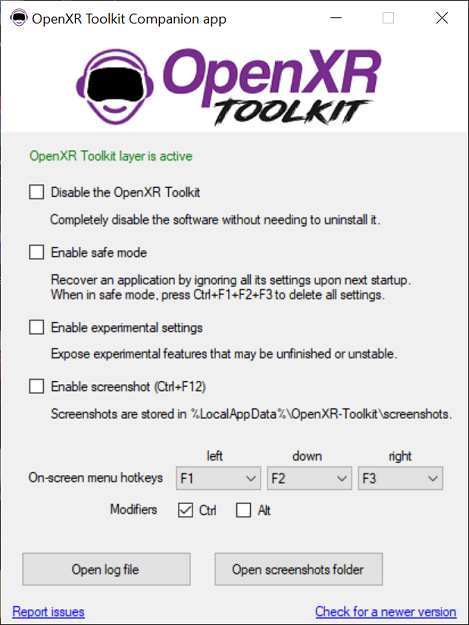
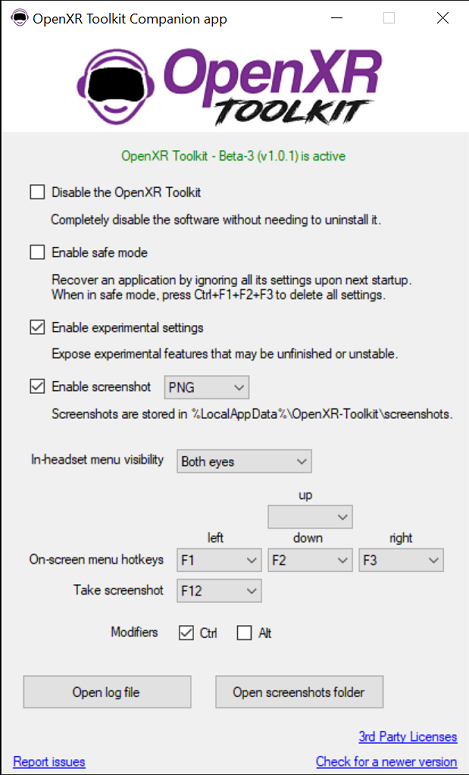
More doc polishing.

diff --git a/index.md b/index.md
@@ -36,9 +36,9 @@ The following OpenXR ToolKit features have additional restrictions:
 
 + This software was only extensively tested with Microsoft Flight Simulator 2020.
 + It is also expected this software should work with most Steam games if they are using OpenXR (instead of Steam's OpenVR).
-+ Fixed Foverated Rendering does not work on Oculus headsets when using the Oculus OpenXR Runtime with DirectX 11 applications.
++ Fixed Foveated Rendering does not work on Oculus headsets when using the Oculus OpenXR Runtime with DirectX 11 applications.
   + Please either use the SteamVR OpenXR Runtime or set your application to use DirectX 12.
-+ Fixed Foverated Rendering does not work with War Thunder at this time, and it causes some lighting issues.
++ Fixed Foveated Rendering does not work with War Thunder at this time, and it causes some lighting issues.
 + The menu does not display correctly on Pimax headsets.
 + See the [open bugs](https://github.com/mbucchia/OpenXR-Toolkit/issues?q=is%3Aopen+is%3Aissue+label%3Abug).
 
@@ -61,10 +61,10 @@ Video tutorial by [PIE IN THE SKY TOURS](https://www.youtube.com/c/pieintheskyto
 <details>
   <summary>Proceed through the "Windows protected your PC" warning...</summary>
 
-  Select <i>More info</i> then <i>Run anyway</i>.
+  <p>Select <i>More info</i> then <i>Run anyway</i>.</p>
 
-  <img alt="Warning not signed" src="site/unsigned1.png"></img>
-  <img alt="Warning not signed" src="site/unsigned2.png"></img>
+  <img alt="Warning not signed" src="site/unsigned1.png">
+  <img alt="Warning not signed" src="site/unsigned2.png">
 
 </details>
 
@@ -77,7 +77,7 @@ Video tutorial by [PIE IN THE SKY TOURS](https://www.youtube.com/c/pieintheskyto
 <details>
   <summary>You can use the shorcut found on the desktop or in the Start menu...</summary>
 
-  <img alt="Companion app shortcut" src="site/companion-start.png"></img>
+  <img alt="Companion app shortcut" src="site/companion-start.png">
   
 </details>
 
@@ -105,6 +105,13 @@ In order to navigate the menu, select options and change values:
 > 💡 **Tip:** When starting an application for the first time, use the configuration menu to adjust the _Menu eye offset_ until the text appears correctly (eg: no "double vision").
 
 > 📝 **Note:** The first few times you're using the OpenXR Toolkit with a new application, a convenient reminder message will appear in the headset and confirms whether the software is operating properly.
+
+<details>
+  <summary>On-screen indicator...</summary>
+
+  <img alt="On-screen indicator" src="site/osd-indicator.png">
+
+</details>
   
 ## Available options
 
@@ -125,7 +132,7 @@ See [Features](features) for more details.
   - **Inner resolution** (with _Custom_ mode, Expert setting): The resolution inside the inner ring of foveation. Should be left at full resolution (1x).
   - **Inner ring size** (with _Custom_ mode): The size of the inner ring of foveation, in percent of the height of the image.
   - **Middle resolution** (with _Custom_ mode): The resolution inside the middle ring of foveation.
-  - **Outer ring size** (with _Custom_ mode): The size of the ouner ring of foveation, in percent of the height of the image.
+  - **Outer ring size** (with _Custom_ mode): The size of the outer ring of foveation, in percent of the height of the image.
   - **Outer resolution** (with _Custom_ mode): The resolution inside the outer ring of foveation.
   - **Horizontal offset** (with _Custom_ mode, Expert setting): Add a horizontal offset to the center of the foveation rings. The offset is expressed relative to the left eye, and its opposite value will be applied to the right eye.
   - **Horizontal scale** (with _Custom_ mode, Expert setting): The rings for foveation can be configured as ellipses. This setting controls the scale of the horizontal radius (or semi-major axis) based on the vertical radius (or semi-minor axis). A value of 100% means that the rings are circles. A value larger than 100% will result in flattened, oval-shaped rings.
@@ -142,7 +149,7 @@ See [Features](features) for more details.
 
 **Inputs** tab:
 - **Shaking reduction**, formerly **Prediction dampening** (only when supported by the system): The prediction override, which can be use to dampen the prediction for head, controllers, and hand movements.
-- **Controller emulation** (only when hand tracking is supported by the system): Enable the use of hand tracking in place of the VR controller. Requires a compatible device, such as the Leap Motion. Either or both hands can be enabled at the same time. Requires to restart the VR session when toggling on or off. 
+- **Controller emulation** (only when hand tracking is supported by the system): Enable the use of hand tracking in place of the VR controller. Requires a compatible device, such a Leap Motion controller or an Oculus Quest 2 headset. Either or both hands can be enabled at a time. Requires to restart the VR session when toggling on or off. 
   - **Hands skeleton**: Whether the hands are displayed and what color tone to use.
   - **Controller timeout**: The amount of time after losing track of the hands before simulator shutdown of the simulated VR controller.
 

diff --git a/other-features.md b/other-features.md
@@ -39,7 +39,7 @@ When motion reprojection is not enabled, this setting has no effect.
 
 ## Field of view
 
-TODO
+The field of view override adjusts the pixel density per degree. A smaller field of view is covering a smaller region of the view but with the same amount of pixels, effectively increasing the perceived resolution.
 
 ## Screen capture
 

diff --git a/changelog.md b/changelog.md
@@ -12,7 +12,7 @@ nav_order: 6
 
 ---
 
-## Changes in Beta #3 (Mar 2022 / v1.0.0 - )
+## Changes in Beta #3 (Mar 2022 / v1.0.1 - )
 
 - Add support for Fixed Foveated Rendering (FFR) (experimental, with selected GPUs only).
 - Add support for anamorphic upscaling (independent upscaling of horizontal and vertical resolution).
